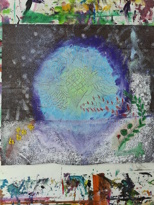
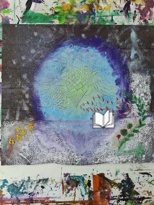
More stuff

Changed region(s): [[0.5974, 0.5268, 0.7532, 0.6439]]

diff --git a/ref/Til Min datter igen.html b/ref/Til Min datter igen.html
@@ -1,0 +1,115 @@
+<!DOCTYPE html>
+<html>
+<head>
+  <meta http-equiv="Content-Type" content="text/html; charset=UTF-8">
+  <link rel="stylesheet" href="../styles.css">
+</head>
+<body>
+    <p>
+		<a href="../gallary.html">tilbage</a>
+	</p>
+	<table>
+		<tr>
+			<td style="vertical-align: top; padding-right: 60px;">
+				<h3>Til Min Datter igen (09/09-2023):</h3>				
+					<p>				
+						Den rå strategi
+						<br/>
+						i en dejlig form 
+						<br/>
+						Statestik og sandsynlighedder 
+						<br/>
+						kun til dig min tøs
+					</p>	
+					<p>
+						hvor er du henne igen i morgen ?
+						<br/>
+						Hvor er du hver dag
+						<br/>
+						jeg lover dig
+						<br/>
+						at synge for dig 
+						<br/>
+						når du skal i seng
+					</p>
+					<p>
+						men jeg kan ikke love dig alt 
+						<br/>
+						kun det jeg kan nu
+						<br/>
+						Men hvad kan jeg nu 
+						<br/>
+						det bliver kun for dig 
+					</p>
+						hverdag bliver hver dag
+						<br/>
+						hver dag bliver til hverdag
+						<br/>
+						skønt kun for dig 
+						<br/>
+						går det op
+					<p>
+						Nu blev det morgen 
+						<br/>
+						igen igen
+						<br/>
+						Jeg er træt 
+						<br/>
+						over træt
+						<br/>
+						eller bare træt	
+					</p>	
+					<p>
+						jeg elsker engle igen
+						<br/>
+						ellers også istedet
+						<br/>
+						Men kun godt
+						<br/>
+						til min datter
+					</p>
+					<p>
+						Nu skriver digtet sig selv
+						<br/>
+						igen igen
+						<br/>
+						noget giver mening 
+						<br/>
+						hvor andre giver op
+						<br/>
+						det giver kun mening for mig
+					</p>
+					<p>
+						Totalt BLANK idag
+						<br/>
+						hvad skal jeg finde på
+						<br/>
+						Jeg er urolig 
+						<br/>
+						det lader sig gi sig
+						<br/>
+						savl tager over
+					</p>
+					<p>
+						Men den bliver til EFTER
+						<br/>
+						Min store samtale
+						<br/>
+						med moren 
+						<br/>
+						igen igen
+						<br/>
+						Men bruger man store ord
+						<br/>
+						går alt i stå 
+					</p>
+				</td>
+			<td>
+					<a href="../img/2026-08-x afsnittet (4_1).jpg"><img height="803" src="../img/2026-08-x afsnittet (4_1).jpg"></a>
+				
+			</td>
+			
+			</tr>
+		</table>
+</body>
+</html>

diff --git a/gallary.html b/gallary.html
@@ -45,7 +45,9 @@
 	<a href="./img/2026-08-x afsnittet (3).jpeg"><img src="./img/2026-08-x afsnittet (3)_t.jpg" alt="description" /></a>
 	<a href="./img/2026-08-x afsnittet (3_1).jpeg"><img src="./img/2026-08-x afsnittet (3_1)_t.jpg" alt="description" /></a>
 	<a href="./img/2026-08-x afsnittet (4).jpg"><img src="./img/2026-08-x afsnittet (4)_t.jpg" alt="description" /></a>
-	<a href="./img/2026-08-x afsnittet (4_1).jpg"><img src="./img/2026-08-x afsnittet (4_1)_t.jpg" alt="description" /></a>
+	
+	<a href="./ref/Til Min datter igen.html"><img src="./img/2026-08-x afsnittet (4_1)_t.jpg" alt="Datter igen" /></a>
+	
 	<a href="./img/2026-08-x afsnittet (5).jpg"><img src="./img/2026-08-x afsnittet (5)_t.jpg" alt="description" /></a>
 	<a href="./img/2026-08-x afsnittet (6).jpg"><img src="./img/2026-08-x afsnittet (6)_t.jpg" alt="description" /></a>
 	<a href="./img/2026-08-x afsnittet (6_1).jpg"><img src="./img/2026-08-x afsnittet (6_1)_t.jpg" alt="description" /></a>
